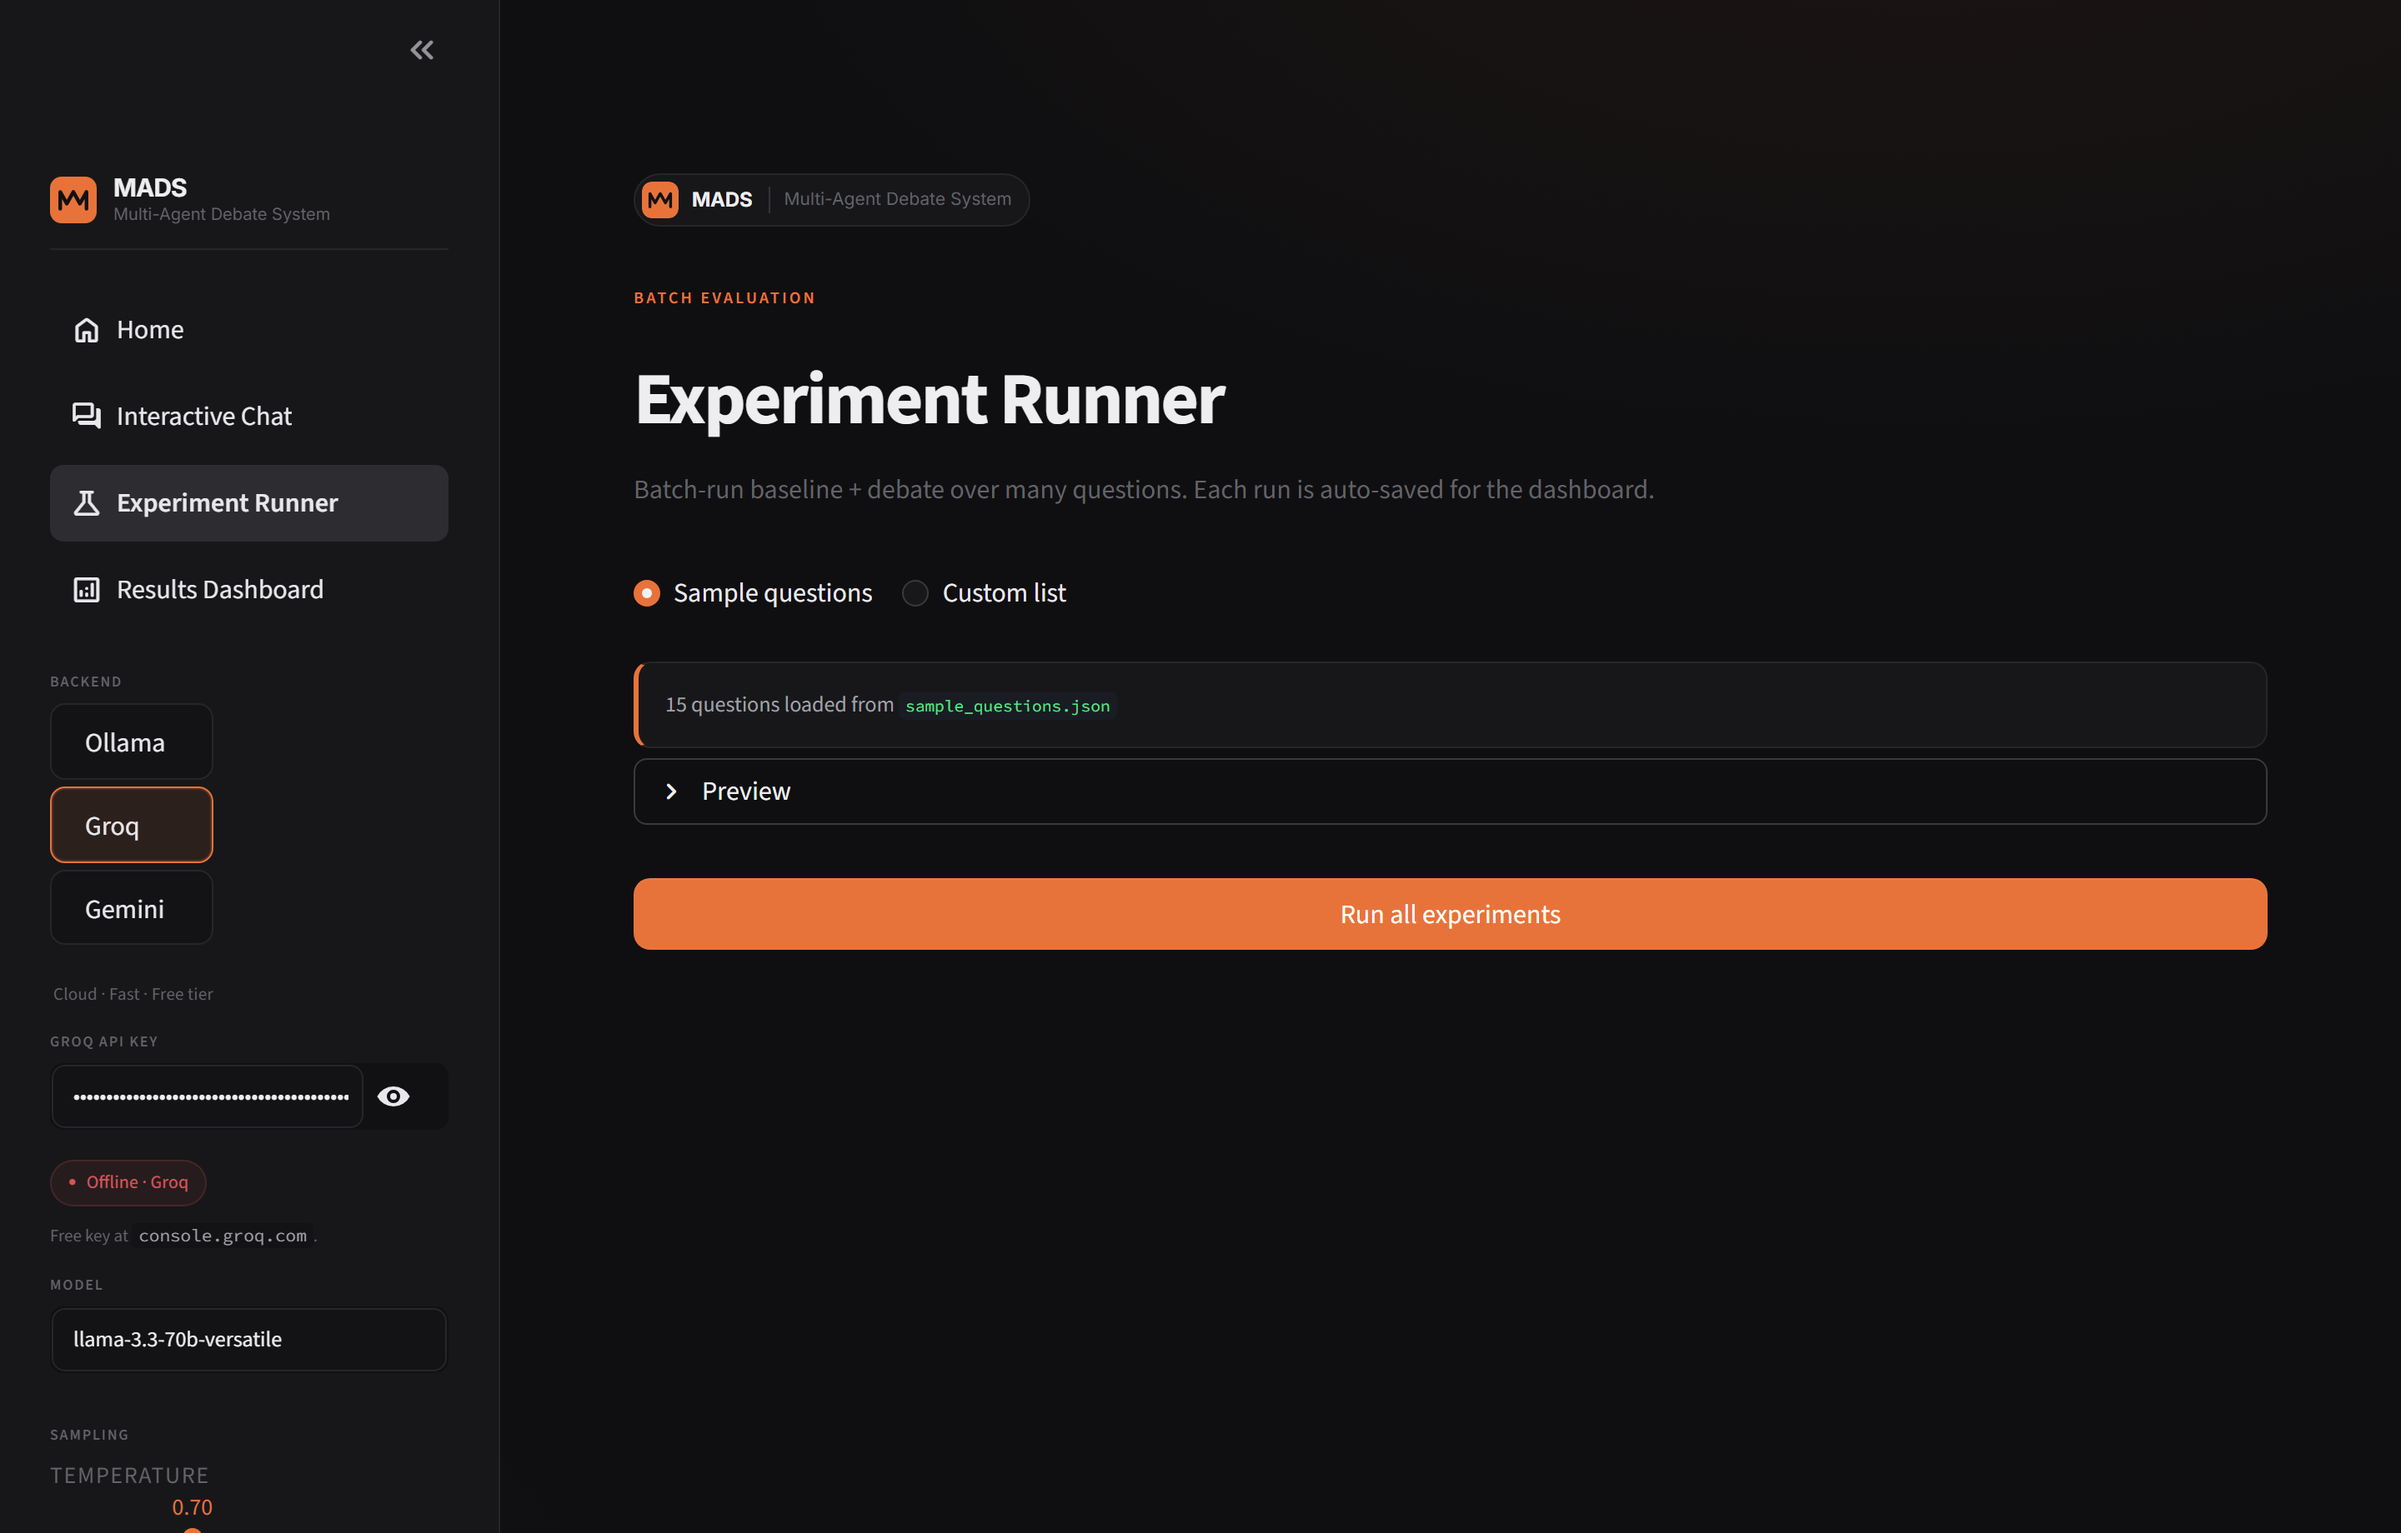
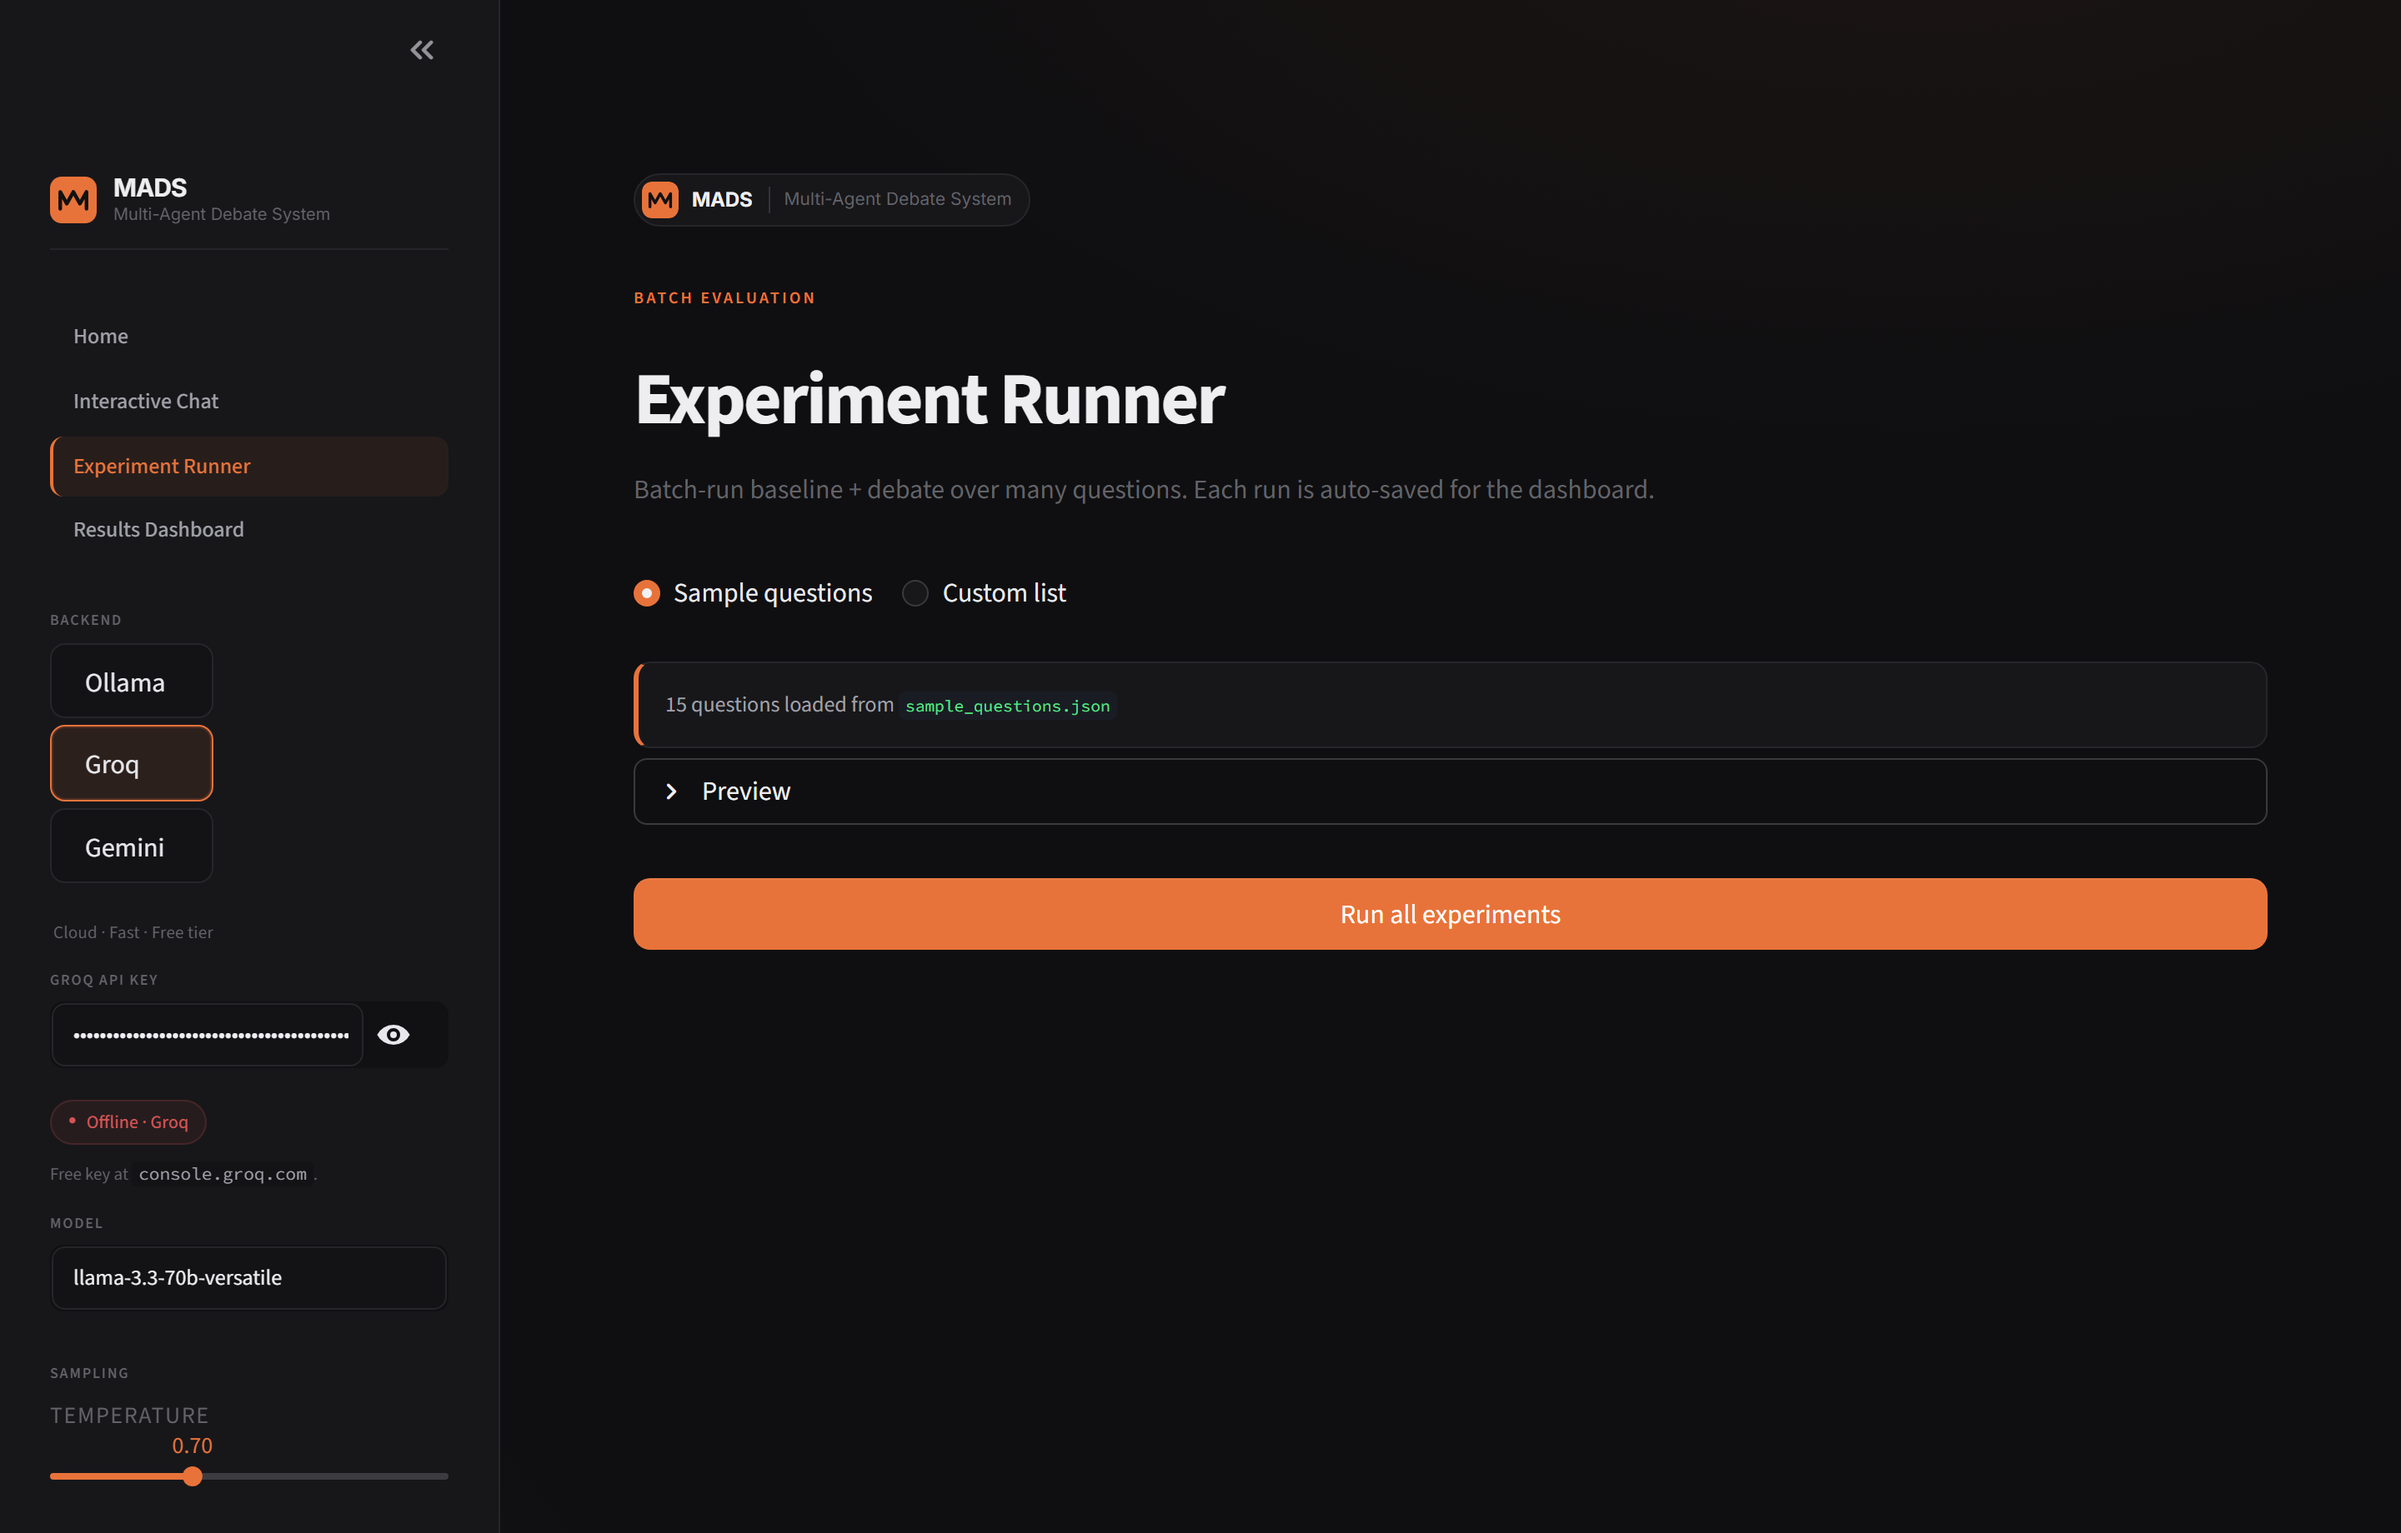
Fix StreamlitPageNotFoundError + drop the ngrok detour
The deploy was throwing StreamlitPageNotFoundError on every page
load because `st.page_link("Home.py", ...)` requires the entry
script Streamlit was launched with to literally be Home.py — but on
the cloud the entry is the `app.py` shim, so the lookup fails.

Replace `st.page_link` with plain HTML <a> anchors that go through
Streamlit's URL router. Anchors don't care which entry script is
registered; navigation by URL works for Home.py / app.py /
streamlit_app.py alike.

Also reverted the Ollama-tunnel detour the user asked me to drop:
* The "Ollama server URL" input is gone from the sidebar; the
  client always uses the local default.
* README "Option E — ngrok tunnel" section removed; replaced with
  a one-line note that Streamlit Cloud users pick Gemini/Groq, and
  Ollama is for local runs only.

Tests + ruff + local screenshots all green.

diff --git a/core/sidebar.py b/core/sidebar.py
@@ -24,7 +24,6 @@ from core.config import (
     GROQ_API_KEY,
     GROQ_DEFAULT_MODEL,
     MAX_DEBATE_ROUNDS,
-    OLLAMA_BASE_URL,
     OLLAMA_FAST_MODEL,
     TASK_DOMAINS,
 )
@@ -45,6 +44,35 @@ def _default_model_for(backend_id: str) -> str:
     }[backend_id]
 
 
+def _nav(active: str | None = None) -> None:
+    """
+    Render the four sidebar nav links as plain HTML anchors.
+
+    Plain anchors go through Streamlit's URL router and therefore work
+    no matter which entry script is registered (`Home.py`, `app.py`,
+    or `streamlit_app.py`). `st.page_link` cannot do this — it
+    validates the script-path argument against Streamlit's registered
+    pages, which fails when the entry is the `app.py` shim.
+
+    `active` is one of "home" | "chat" | "runner" | "dashboard"; pass
+    `None` (default) to skip the active-state styling.
+    """
+    items = [
+        ("home",      "/",                    "Home"),
+        ("chat",      "/Interactive_Chat",    "Interactive Chat"),
+        ("runner",    "/Experiment_Runner",   "Experiment Runner"),
+        ("dashboard", "/Results_Dashboard",   "Results Dashboard"),
+    ]
+    parts = ['<nav class="m-nav">']
+    for key, href, label in items:
+        cls = "m-nav-item" + (" m-nav-active" if key == active else "")
+        parts.append(
+            f'<a class="{cls}" href="{href}" target="_self">{label}</a>'
+        )
+    parts.append("</nav>")
+    st.sidebar.markdown("".join(parts), unsafe_allow_html=True)
+
+
 def _smart_default_backend() -> str:
     """
     Pick the most useful default backend for the current environment.
@@ -62,9 +90,13 @@ def _smart_default_backend() -> str:
     return "ollama"
 
 
-def render_sidebar() -> dict:
+def render_sidebar(active_page: str | None = None) -> dict:
     """
     Draw the shared sidebar and store the resulting state in session.
+
+    `active_page` (one of "home" | "chat" | "runner" | "dashboard")
+    is used to highlight the current entry in the custom nav. Pass
+    `None` (default) to skip highlighting.
 
     Returns a snapshot dict with the connected client, backend id, model,
     and connection state — convenient for the calling page even though the
@@ -72,27 +104,7 @@ def render_sidebar() -> dict:
     """
     with st.sidebar:
         sidebar_brand()
-
-        # --- Custom navigation (replaces Streamlit's auto sidebar nav) --
-        # The auto nav reads filenames ("app", "Interactive Chat", ...).
-        # We hide it via CSS and render explicit page links here so the
-        # brand stays at the very top and labels are under our control.
-        st.page_link("Home.py", label="Home", icon=":material/home:")
-        st.page_link(
-            "pages/1_Interactive_Chat.py",
-            label="Interactive Chat",
-            icon=":material/forum:",
-        )
-        st.page_link(
-            "pages/2_Experiment_Runner.py",
-            label="Experiment Runner",
-            icon=":material/science:",
-        )
-        st.page_link(
-            "pages/3_Results_Dashboard.py",
-            label="Results Dashboard",
-            icon=":material/analytics:",
-        )
+        _nav(active_page)
 
         # --- Backend (vertical buttons via radio with custom CSS) -------
         sidebar_label("Backend")
@@ -117,21 +129,7 @@ def render_sidebar() -> dict:
         client = None
 
         if backend_id == "ollama":
-            sidebar_label("Ollama server URL")
-            ollama_url = st.text_input(
-                "ollama_url",
-                value=st.session_state.get("ollama_base_url", OLLAMA_BASE_URL),
-                placeholder="http://localhost:11434",
-                label_visibility="collapsed",
-                key="sb_ollama_url",
-                help=(
-                    "Local default is fine when running on your machine. "
-                    "On Streamlit Cloud, paste an ngrok / Cloudflare tunnel "
-                    "URL pointing at your home Ollama (see README)."
-                ),
-            )
-            st.session_state["ollama_base_url"] = ollama_url
-            client = OllamaClient(ollama_url or OLLAMA_BASE_URL)
+            client = OllamaClient()
             st.session_state["groq_api_key"] = ""
             st.session_state["gemini_api_key"] = ""
 

diff --git a/core/theme.py b/core/theme.py
@@ -518,35 +518,40 @@ section[data-testid="stSidebar"] .stRadio > div > label > div:first-child {{
 }}
 
 /* Hide Streamlit's auto-discovered sidebar nav (built from filenames).
-   We render our own with `st.page_link` below the brand so the layout
+   We render our own anchor-based `.m-nav` below the brand so the layout
    order is: brand → links → backend → … */
 section[data-testid="stSidebar"] [data-testid="stSidebarNav"],
 section[data-testid="stSidebar"] [data-testid="stSidebarNavSeparator"] {{
     display: none !important;
 }}
 
-/* Style the custom st.page_link entries to feel like real nav. */
-section[data-testid="stSidebar"] [data-testid="stPageLink-NavLink"],
-section[data-testid="stSidebar"] a[data-testid="stPageLink"] {{
+/* Custom anchor-based sidebar nav. Plain <a> instead of st.page_link
+   so the entry-script name (Home.py / app.py / streamlit_app.py)
+   doesn't matter; navigation is done via Streamlit's URL router. */
+section[data-testid="stSidebar"] .m-nav {{
+    display: flex; flex-direction: column; gap: 2px;
+    margin: 4px 0 14px 0;
+}}
+section[data-testid="stSidebar"] .m-nav .m-nav-item,
+section[data-testid="stSidebar"] .m-nav .m-nav-item:visited {{
+    display: block;
+    padding: 8px 12px;
     border-radius: 8px;
-    padding: 7px 12px !important;
-    margin: 1px 0;
-    font-size: 13px !important;
-    font-weight: 500 !important;
-    color: {C["text_2"]} !important;
+    border-left: 2px solid transparent;
+    font-size: 13px; font-weight: 500;
+    color: {C["text_2"]};
     text-decoration: none !important;
-    transition: all 0.15s;
+    transition: background 0.15s, color 0.15s, border-color 0.15s;
 }}
-section[data-testid="stSidebar"] [data-testid="stPageLink-NavLink"]:hover,
-section[data-testid="stSidebar"] a[data-testid="stPageLink"]:hover {{
-    background: {C["bg_hover"]} !important;
-    color: {C["text_1"]} !important;
+section[data-testid="stSidebar"] .m-nav .m-nav-item:hover {{
+    background: {C["bg_hover"]};
+    color: {C["text_1"]};
+    text-decoration: none !important;
 }}
-section[data-testid="stSidebar"] [data-testid="stPageLink-NavLink"][aria-current="page"],
-section[data-testid="stSidebar"] a[data-testid="stPageLink"][aria-current="page"] {{
+section[data-testid="stSidebar"] .m-nav .m-nav-active {{
     background: {C["accent"]}14 !important;
     color: {C["accent"]} !important;
-    border-left: 2px solid {C["accent"]};
+    border-left-color: {C["accent"]} !important;
 }}
 
 /* Sidebar custom blocks */

diff --git a/pages/2_Experiment_Runner.py b/pages/2_Experiment_Runner.py
@@ -23,7 +23,7 @@ from core.utils import format_timestamp, generate_experiment_id
 
 st.set_page_config(page_title="MADS — Experiments", page_icon=favicon_uri(), layout="wide")
 inject_premium_css()
-render_sidebar()
+render_sidebar(active_page="runner")
 top_brand()
 
 

diff --git a/pages/1_Interactive_Chat.py b/pages/1_Interactive_Chat.py
@@ -34,7 +34,7 @@ from core.utils import format_timestamp, generate_experiment_id
 
 st.set_page_config(page_title="MADS — Chat", page_icon=favicon_uri(), layout="wide")
 inject_premium_css()
-render_sidebar()
+render_sidebar(active_page="chat")
 top_brand()
 
 

diff --git a/pages/3_Results_Dashboard.py b/pages/3_Results_Dashboard.py
@@ -30,7 +30,7 @@ from core.theme import (
 
 st.set_page_config(page_title="MADS — Dashboard", page_icon=favicon_uri(), layout="wide")
 inject_premium_css()
-render_sidebar()
+render_sidebar(active_page="dashboard")
 top_brand()
 
 PL = dict(

diff --git a/Home.py b/Home.py
@@ -34,7 +34,7 @@ st.set_page_config(
 
 inject_premium_css()
 
-state = render_sidebar()
+state = render_sidebar(active_page="home")
 client = state["client"]
 connected = state["connected"]
 backend_meta = state["backend_meta"]

diff --git a/README.md b/README.md
@@ -215,41 +215,10 @@ streamlit run Home.py
    for which a key is present, so a freshly deployed instance is
    ready to debate the moment it boots — no Ollama needed.
 
-### Option E — Cloud-deployed UI talking to your local Ollama (tunnel)
-
-Streamlit Cloud cannot reach `localhost:11434` on your laptop, but it
-can reach a public tunnel that points at your local Ollama. This lets
-you keep your debates fully local on your model — and free of cloud
-quotas — while using the cloud-hosted UI.
-
-```bash
-# 1. Install ngrok (free)
-#    https://ngrok.com/download   →   sign up   →   get auth token
-ngrok config add-authtoken <your_token>
-
-# 2. Make sure Ollama is running and serving the model you want
-ollama serve              # in one terminal
-ollama pull qwen3.5:4b    # if not already
-
-# 3. Open a tunnel — leave this terminal running while you use the app
-ngrok http 11434
-# copy the HTTPS forwarding URL, e.g. https://abc123.ngrok-free.app
-```
-
-Then in the **Streamlit Cloud** deployment, **⋯ → Settings → Secrets**:
-
-```toml
-OLLAMA_BASE_URL = "https://abc123.ngrok-free.app"
-```
-
-Save → the app re-arranges. In the sidebar, pick **Ollama** and the
-URL field will be pre-filled. You can also paste a different URL into
-the sidebar at any time without redeploying.
-
-> **Free-tier note.** Ngrok's free tier rotates the URL whenever you
-> restart `ngrok http`. For a stable URL either upgrade ngrok or use
-> Cloudflare Tunnel (`cloudflared tunnel --url http://localhost:11434`)
-> with a domain you control.
+> **Note on Ollama vs Streamlit Cloud.** Streamlit Cloud cannot reach
+> a model running on your laptop. Use the **Gemini** or **Groq**
+> backend on the cloud deploy; switch to **Ollama** when you run the
+> app locally with `streamlit run Home.py`.
 
 ---
 
